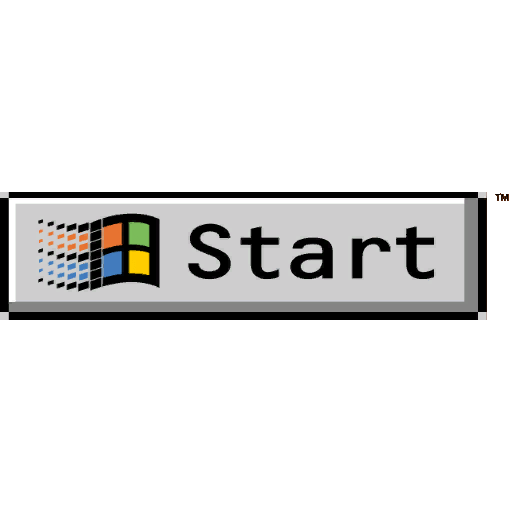
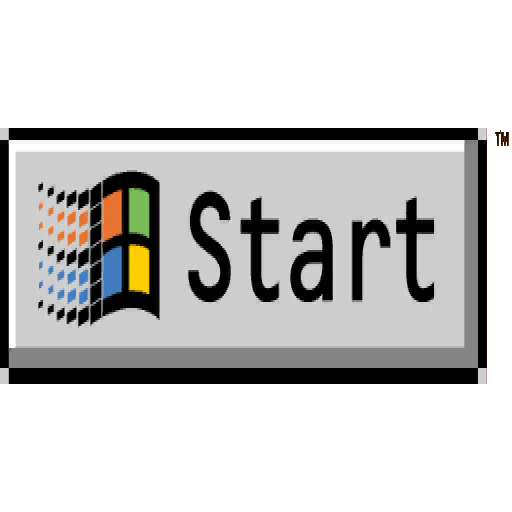
fixed start size, and intros

diff --git a/_js/Windows95Maze.js b/_js/Windows95Maze.js
@@ -836,8 +836,8 @@ class Windows95Maze{
         
         MazeWallsActor.sizeY = 1;
         MazeCoolWallsActor.sizeY = 1;
-        //this.MazeWallsMesh.scale.y = .05;
-        //this.MazeCoolWallsMesh.scale.y = .05;
+        this.MazeWallsMesh.scale.y = .05; //For Intro animation
+        this.MazeCoolWallsMesh.scale.y = .05; //For Intro animation
         
         MazeWallsActor.mesh = this.MazeWallsMesh;
         MazeCoolWallsActor.mesh = this.MazeCoolWallsMesh;
@@ -936,9 +936,9 @@ class Windows95Maze{
         ));
         StartActor.mesh.material.transparent=true;
         StartActor.mesh.material.opacity=0.5;
-        //StartActor.mesh.scale.x = 1.25;
-        //StartActor.mesh.scale.y = 0.05;
-        //StartActor.sizeY = 2;
+        
+        StartActor.mesh.scale.y = 0.05; //For Intro animation
+        StartActor.sizeY = 1;
         this.MazeScene.add(StartActor.mesh);
         StartActor.tick = function()
         {
@@ -1006,7 +1006,7 @@ class Windows95Maze{
         SignActor.mesh.material.transparent=true;
         SignActor.mesh.material.opacity=0.5;
         
-        SignActor.mesh.scale.y = 0.05;
+        SignActor.mesh.scale.y = 0.05; //For Intro animation
         SignActor.sizeY = 1;
 
         this.MazeScene.add(SignActor.mesh);
@@ -1037,8 +1037,8 @@ class Windows95Maze{
         ));
         
         RatActor.mesh.material.transparent=true;
-        //RatActor.mesh.scale.y = 0.05;
-        //RatActor.sizeY = 2;
+        RatActor.mesh.scale.y = 0.05; //For Intro animation
+        RatActor.sizeY = 1;
         RatActor.mesh.position.z = -((RatActor.z*this.MazeCellSize) + (this.MazeCellSize)/2);
         RatActor.mesh.position.x = -((RatActor.x*this.MazeCellSize) + (this.MazeCellSize)/2);
         //RatActor.mesh.position.z = -((RatActor.z) + (this.MazeCellSize)/2);
@@ -1137,7 +1137,7 @@ class Windows95Maze{
             new THREE.MeshPhongMaterial({ color: 0xcccccc, specular: 0xffffff})
         ));
         SpinnerActor.mesh.scale.x=50;
-        SpinnerActor.mesh.scale.y=0.05;
+        SpinnerActor.mesh.scale.y=0.05; //For Intro animation
         SpinnerActor.sizeY=50;
         SpinnerActor.mesh.scale.z=50;
 
